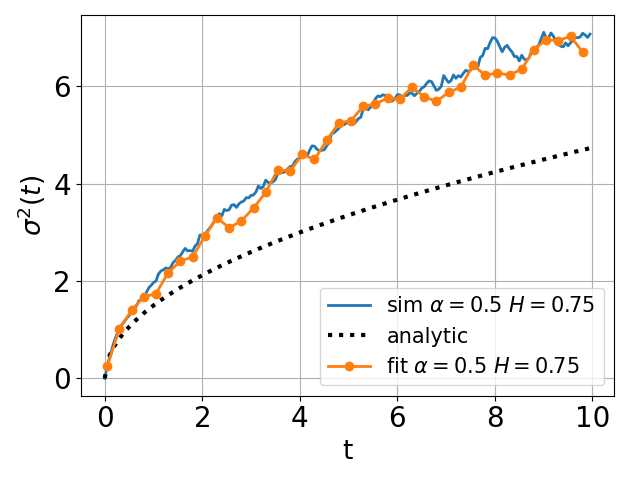
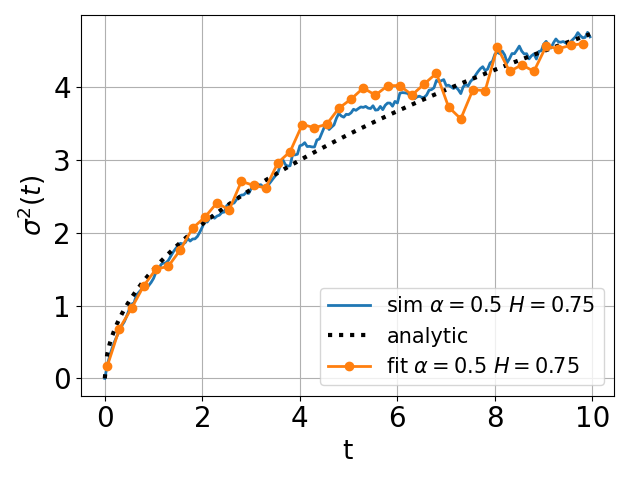
added A_H to title, now analysing

diff --git a/scripts/plot.py b/scripts/plot.py
@@ -7,21 +7,21 @@ import utilities
 
 mode = 'phi'
 alphas = [0.5]   # include both cases
-Hs = [0.75]#, 0.5, 0.3]            # only used if alpha==1
+Hs = [0.9, 0.8, 0.6]            # only used if alpha==1
 realizations = 1000
 Tf = 10
 h = 0.05
 sets = 1
-
 # Plotting
 fig1, ax1 = plt.subplots(figsize=(12, 9))
-fig2, ax2 = plt.subplots()
+fig2, ax2 = plt.subplots(figsize=(12, 9))
 fig3, ax3 = plt.subplots()
 
 for alpha in alphas:
     for H in Hs:
 
         env = utilities.read_env(mode, alpha, H, realizations, Tf, h, sets)
+        A_H = env.A_H
 
         # Plot MSD
         env.compute_msd()
@@ -50,8 +50,8 @@ for alpha in alphas:
         fig_pdf.savefig(f"plots/pdf/{mode}pdf_alpha{alpha}_H{H}_r{realizations*sets}_Tf{Tf}_h{h}.png", dpi=100)
 
 fig1.tight_layout()
-fig1.savefig(f"plots/msd/{mode}msd_alpha{alphas}_H{Hs}_r{realizations*sets}_Tf{Tf}_h{h}.png", dpi=100)
+fig1.savefig(f"plots/msd/{mode}msd_alpha{alphas}_H{Hs}_r{realizations*sets}_Tf{Tf}_h{h}_AH{A_H}.png", dpi=100)
 fig2.tight_layout()
-fig2.savefig(f"plots/var/{mode}var_alpha{alphas}_H{Hs}_r{realizations*sets}_Tf{Tf}_h{h}.png", dpi=100)
+fig2.savefig(f"plots/var/{mode}var_alpha{alphas}_H{Hs}_r{realizations*sets}_Tf{Tf}_h{h}_AH{A_H}.png", dpi=100)
 fig3.tight_layout()
-fig3.savefig(f"plots/mean/{mode}mean_alpha{alphas}_H{Hs}_r{realizations*sets}_Tf{Tf}_h{h}.png", dpi=100)
+fig3.savefig(f"plots/mean/{mode}mean_alpha{alphas}_H{Hs}_r{realizations*sets}_Tf{Tf}_h{h}_AH{A_H}.png", dpi=100)

diff --git a/src/world.py b/src/world.py
@@ -33,6 +33,7 @@ class Base:
 
         if self.alpha == (2-2*H):
             self.A_H = 1/np.sqrt(H*(2*H-1)*gamma(2*H-1))
+            # self.A_H = 1#/np.sqrt(H*(2*H-1)*gamma(2*H-1))
             # print('scaling')
         else: 
             self.A_H = 1#/np.sqrt(2)
@@ -133,7 +134,9 @@ class Angular(Base):
         nominator = H*gamma(2*H)
         denominator = (alpha+H-1)*gamma(alpha)*gamma(alpha+2*H-1)
         self.var_an = (nominator/denominator)*(self.t**(2*alpha+2*H-2))
-        return (2/gamma(alpha+1))*((time*self.h)**(alpha))
+        # self.var_an = (2/gamma(alpha+1))*self.t**(alpha)
+        return (nominator/denominator)*(time**(2*alpha+2*H-2))
+    
         # return (nominator/denominator)*((time*self.h)**(2*alpha+2*H-2))
 
     def propagator(self, time_index):

diff --git a/src/plotting.py b/src/plotting.py
@@ -152,7 +152,8 @@ def plot_moment(ax, env, variable, mom_type, label_an = True):
     ax.set_ylabel(ylabel_map[mom_type], fontsize=axis_fontsize)
     ax.tick_params(axis='both', labelsize=size_ticks)
     ax.grid(':')
-    ax.legend(fontsize=legend_size)
+    ax.legend(fontsize = legend_size, bbox_to_anchor=(1, 1))
+
 
 
 def plot_pdf(ax, env, mode, time):
